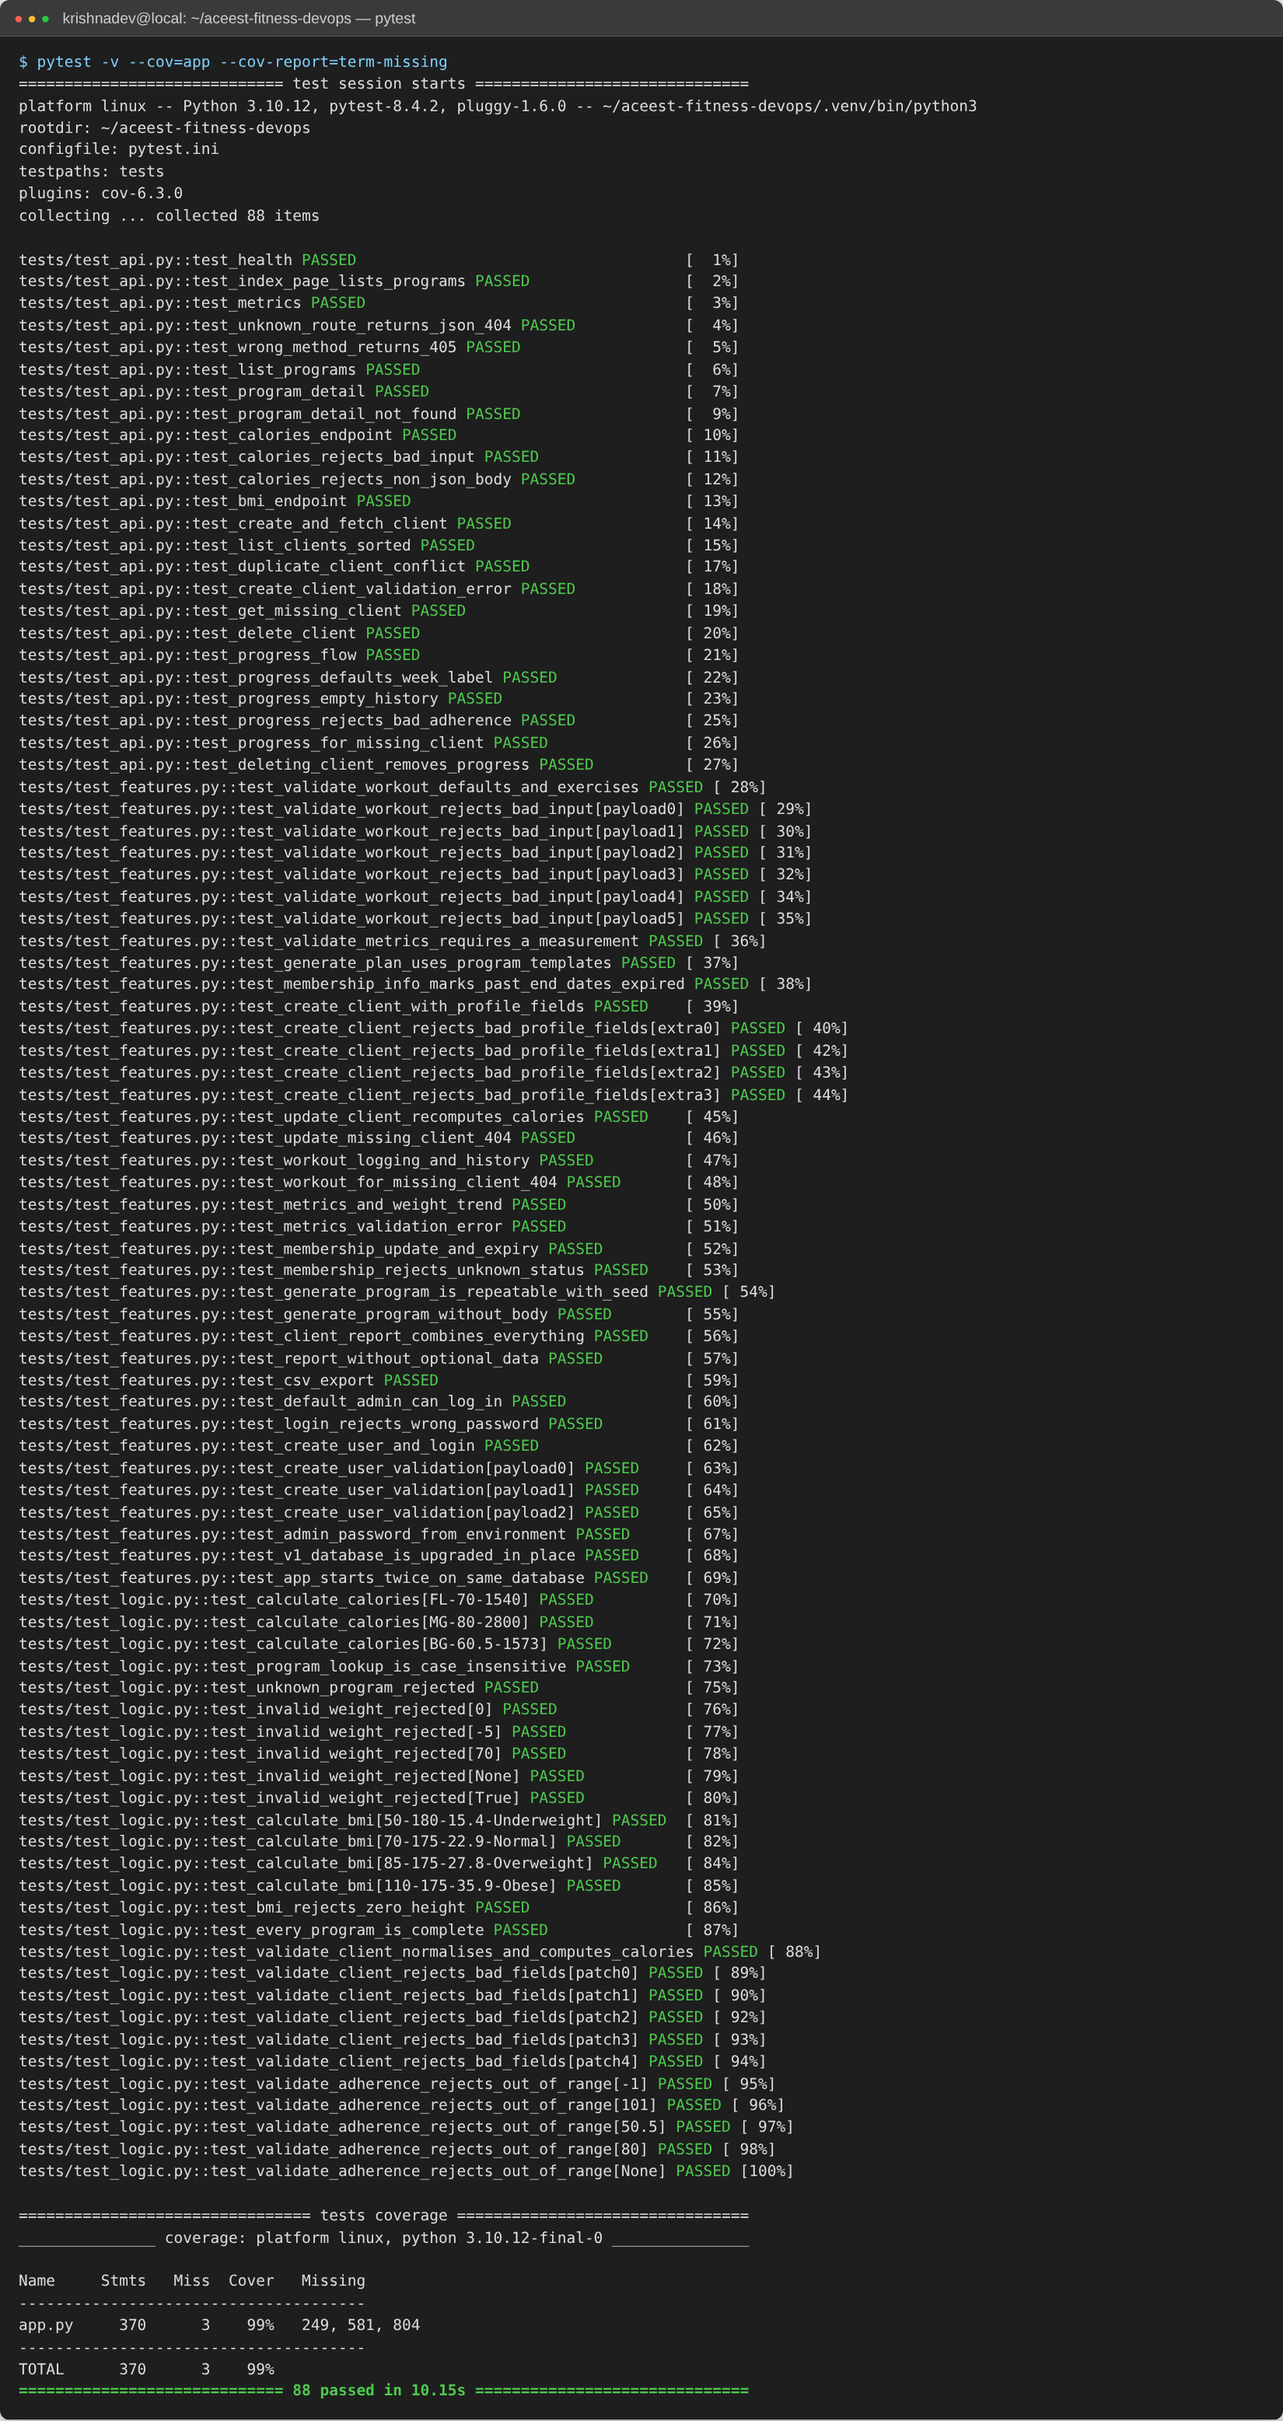
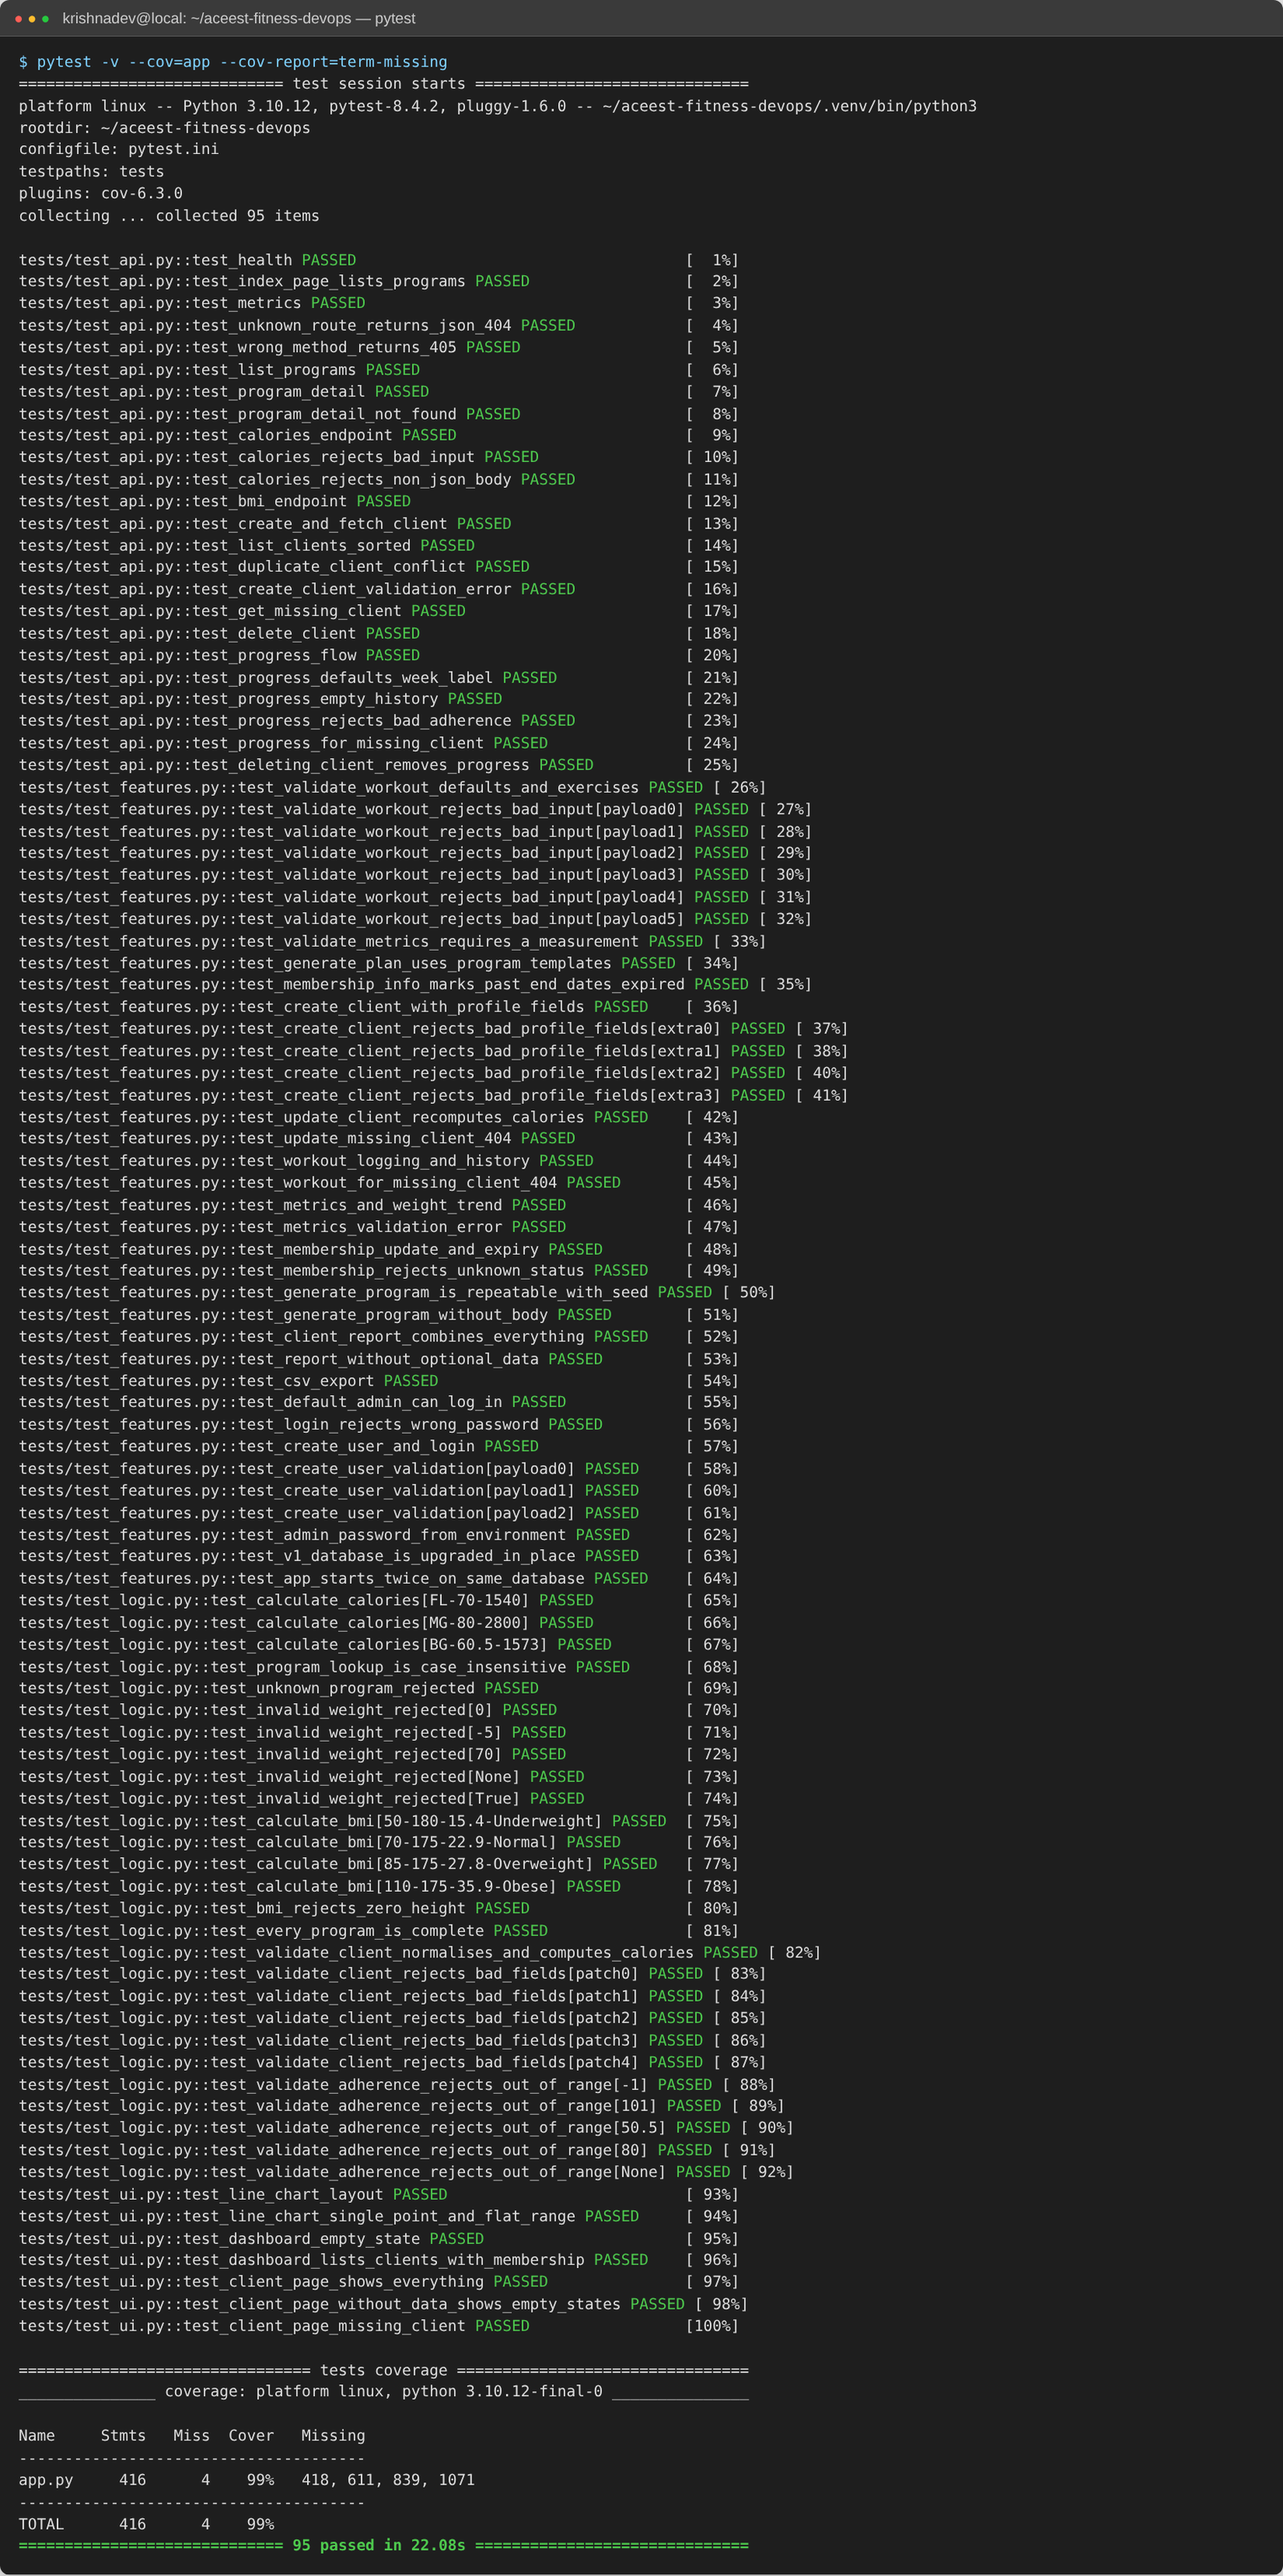
docs: refresh local run evidence for v2.1.0

Changed region(s): [[0.0, 0.0, 0.6562, 0.9964], [0.7188, 0.0311, 0.75, 0.0623]]

diff --git a/README.md b/README.md
@@ -208,7 +208,7 @@ Compile check and flake8 — no issues:
 
 ![Compile and lint](docs/screenshots/07-local-compile-and-lint.png)
 
-Pytest — **88 passed, 99 % coverage of `app.py`**:
+Pytest — **95 passed, 99 % coverage of `app.py`**:
 
 ![Pytest](docs/screenshots/08-local-pytest-passed.png)
 
